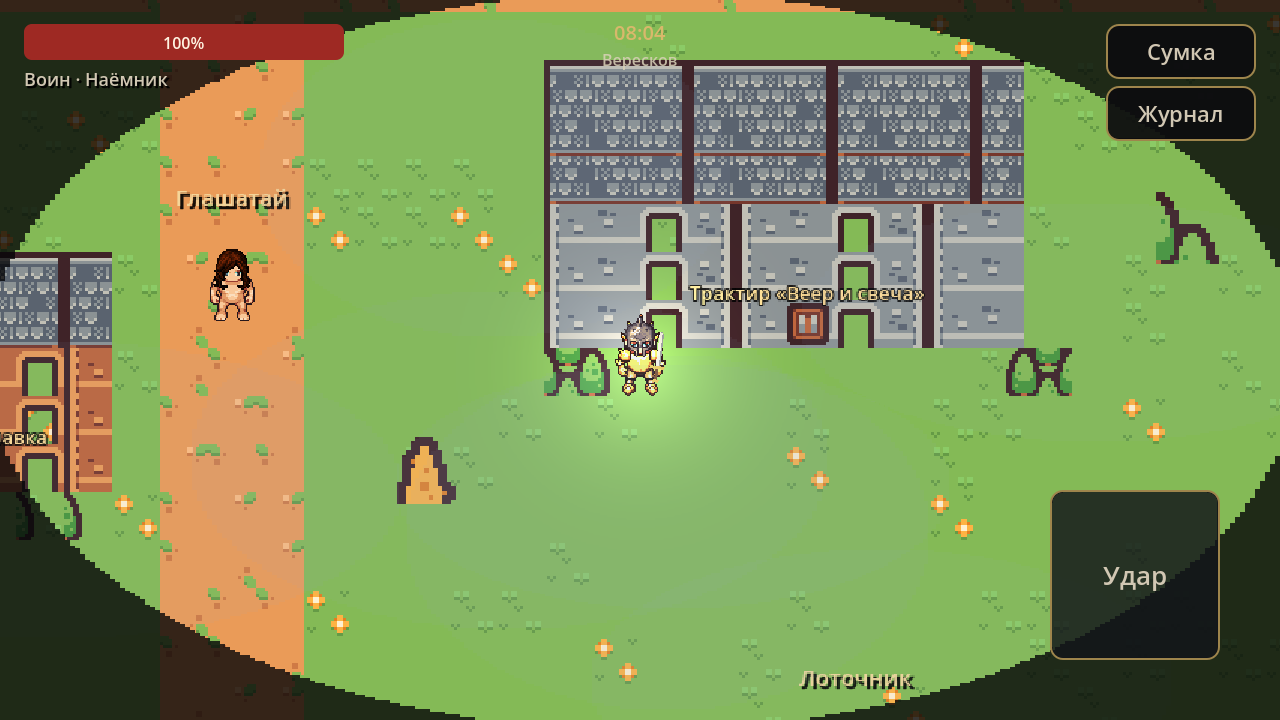
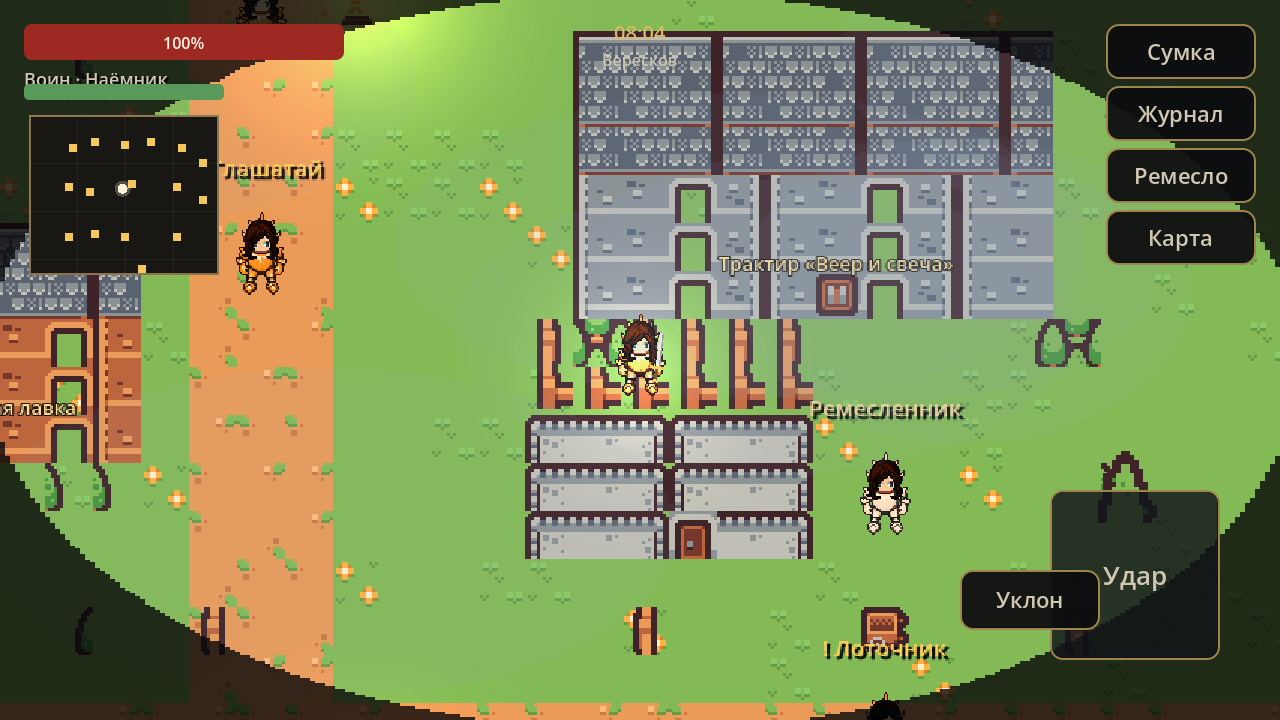
docs: версия 0.7 — застройка города, новые локации и NPC

diff --git a/README.md b/README.md
@@ -1,4 +1,4 @@
-# The Dark RPG
+# The Dark RPG
 
 2D экшен-RPG с видом сверху для Android. Тёмное фэнтези, открытые зоны, NPC с диалогами, квесты, торговля и ремесло.
 
@@ -30,7 +30,7 @@
 
 **Мир**
 - 8 зон: деревня, лес, тихое озеро, город Вересков, старое кладбище, сгоревшие руины, пещеры, шахты.
-- Дома с интерьерами и дверями: лавки, таверны, ратуша, храм, казармы, библиотека, гильдия.
+- 16 зданий с интерьерами в городе и 10 в деревне, плюс застроенные кварталы.
 - Смена дня и ночи, дождь, туман, свет костров.
 
 **Бой**
@@ -44,11 +44,11 @@
 - Навыки растут от использования: клинки, стрельба, алхимия, кузница, выживание.
 
 **NPC и квесты**
-- 23 NPC с диалогами, портретами и озвучкой.
-- 23 квеста, часть с цепочками и предусловиями.
+- Около 35 NPC с диалогами, портретами и разной внешностью.
+- 25 квестов, включая основную сюжетную линию из 5 этапов.
 - Торговля: у каждого торговца свой товар, цены зависят от отношения фракции.
 - Репутация: деревня, город, гильдия.
-- Уличные NPC патрулируют свои места.
+- Уличные NPC патрулируют свои места, ночью возвращаются домой. Метки заданий над головами.
 
 **Интерфейс**
 - Сумка с экипировкой, журнал с квестами и навыками, карта зоны.
@@ -75,3 +75,4 @@
 - Движок: Godot 4.6 (Compatibility), экспорт для Android.
 - Тайлы и базовые спрайты: Kenney (CC0).
 - Портреты, музыка и звуки созданы для проекта.
+

diff --git a/CHANGELOG.md b/CHANGELOG.md
@@ -1,5 +1,17 @@
 # История версий
 
+## 0.7
+- Город Вересков застроен: 16 именованных зданий с интерьерами и десятки фоновых домов в кварталах.
+- В деревне 10 домов: амбар, караулка, часовня, дом фермера; рынок, фонари, поле с помидорами.
+- Новые локации в мире: хижина рыбака на озере, склеп на кладбище, разрушенная часовня в руинах, лагерь охотника в лесу, вагонетки и тайники в шахтах.
+- Новые NPC: отшельник, рыбак, могильщик, пекарь, кожевник, городские жители и второй стражник.
+- Одежда у всех разная: 7 цветов, разные причёски, у стражи шлем и меч.
+- Над квестодателями метки «!» (есть задание) и «?» (можно сдавать).
+- NPC днём гуляют, ночью возвращаются к своим домам.
+- Основная сюжетная линия из 5 этапов: тракт → ярл → некромант → кладбище → культисты.
+- Мини-карта в углу экрана и карта мира со всеми зонами.
+- Убрана озвучка; музыка и звуки боя остались.
+
 ## 0.6
 - Навыки от использования: клинки, стрельба, алхимия, кузница, выживание.
 - Экипировка с эффектом: оружие, броня, шлем; редкость предметов.
